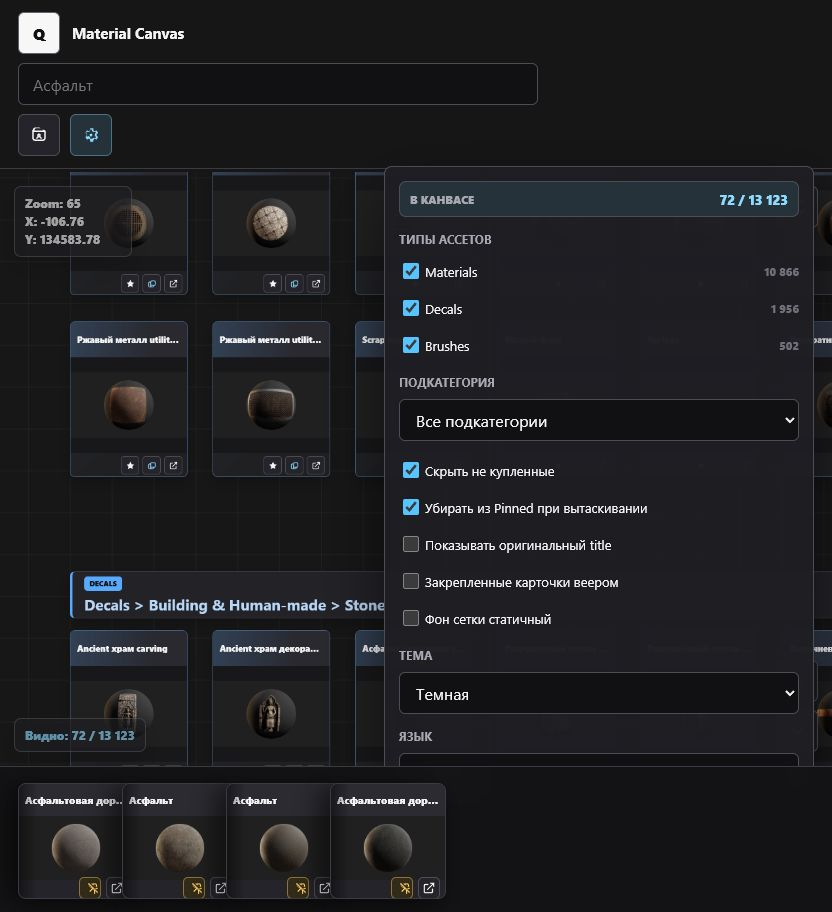
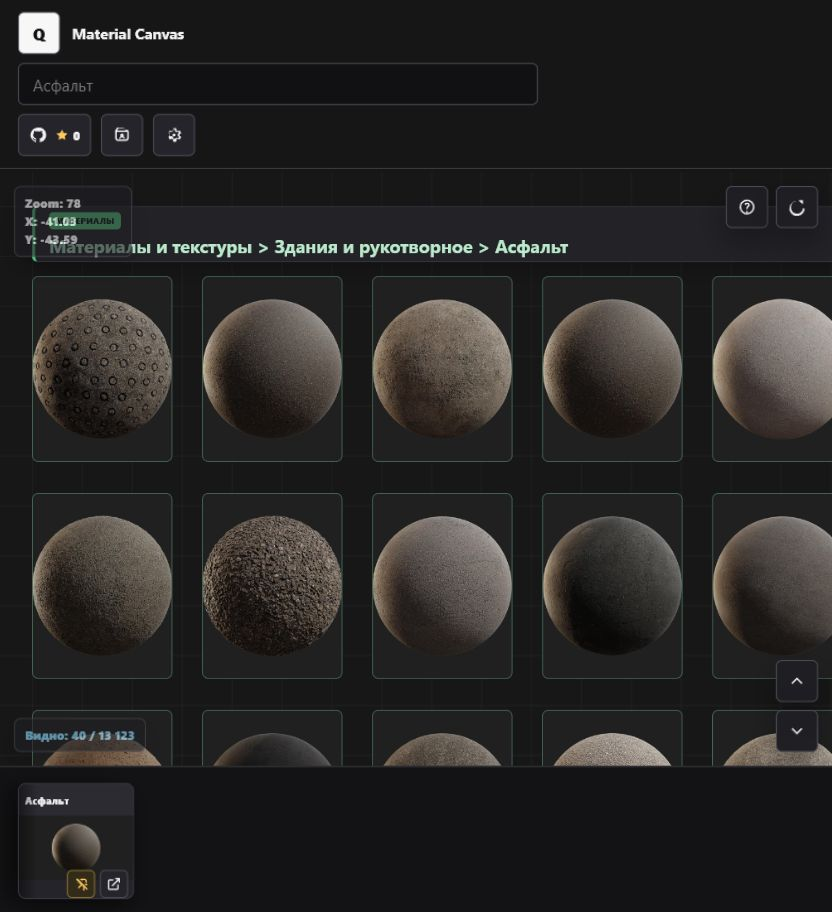
Update docs and localize asset titles

diff --git a/src/App.jsx b/src/App.jsx
@@ -647,6 +647,21 @@ function formatCategoryPath(category, language = DEFAULT_SETTINGS.language) {
     .join(" > ");
 }
 
+function getAssetDisplayTitles(asset, language = DEFAULT_SETTINGS.language, showOriginalTitle = false) {
+  const originalTitle = asset.title || asset.title_ru || "";
+  const translatedTitle = asset.title_ru || asset.title || "";
+  if (showOriginalTitle) {
+    return {
+      primaryTitle: originalTitle,
+      secondaryTitle: translatedTitle && translatedTitle !== originalTitle ? translatedTitle : "",
+    };
+  }
+  return {
+    primaryTitle: language === "ru" ? translatedTitle : originalTitle,
+    secondaryTitle: "",
+  };
+}
+
 function getCategoryLeafLabel(category, language = DEFAULT_SETTINGS.language) {
   const parts = splitCategoryPath(category);
   const leaf = parts.at(-1);
@@ -1761,6 +1776,7 @@ export default function App() {
                   isSearchMatch={!activeQuery || searchMatchSet.has(asset.id)}
                   isCurrent={currentFocusId === asset.id}
                   showOriginalTitle={showOriginalTitle}
+                  language={language}
                   isCompact={isCompactCardZoom}
                   t={t}
                   onTogglePinned={() => togglePinned(asset.id)}
@@ -1785,6 +1801,7 @@ export default function App() {
                   isSearchMatch={!activeQuery || searchMatchSet.has(asset.id)}
                   isCurrent={currentFocusId === asset.id}
                   showOriginalTitle={showOriginalTitle}
+                  language={language}
                   isCompact={isCompactCardZoom}
                   t={t}
                   onTogglePinned={() => togglePinned(asset.id)}
@@ -1848,6 +1865,7 @@ export default function App() {
           assetById={assetById}
           windowWidth={windowWidth}
           showOriginalTitle={showOriginalTitle}
+          language={language}
           pinnedFan={pinnedFan}
           onRemove={(assetId) => togglePinned(assetId)}
           onDragStart={startHandDrag}
@@ -1855,7 +1873,7 @@ export default function App() {
         />
       )}
 
-      {handGhost && <HandGhost ghost={handGhost} showOriginalTitle={showOriginalTitle} t={t} />}
+      {handGhost && <HandGhost ghost={handGhost} showOriginalTitle={showOriginalTitle} language={language} t={t} />}
       {toast && <div className="toast is-visible">{toast}</div>}
     </div>
   );
@@ -2396,6 +2414,7 @@ function AssetCard({
   isSearchMatch,
   isCurrent,
   showOriginalTitle,
+  language = DEFAULT_SETTINGS.language,
   isCompact = false,
   t,
   onTogglePinned,
@@ -2412,8 +2431,7 @@ function AssetCard({
     isCurrent ? "current-hit" : "",
     isCompact ? "is-compact" : "",
   ].filter(Boolean).join(" ");
-  const primaryTitle = showOriginalTitle ? asset.title : (asset.title_ru || asset.title);
-  const secondaryTitle = showOriginalTitle ? asset.title_ru : "";
+  const { primaryTitle, secondaryTitle } = getAssetDisplayTitles(asset, language, showOriginalTitle);
   const cardStyle = {
     transform: `translate(${x}px, ${y}px)`,
     "--asset-preview": `url(${JSON.stringify(asset.preview || "")})`,
@@ -2485,7 +2503,7 @@ function AssetCard({
   );
 }
 
-function Hand({ handRef, pinnedIds, assetById, windowWidth, showOriginalTitle, pinnedFan, onRemove, onDragStart, t }) {
+function Hand({ handRef, pinnedIds, assetById, windowWidth, showOriginalTitle, language, pinnedFan, onRemove, onDragStart, t }) {
   const hoverTimeoutRef = useRef(null);
   const [activeHandCardId, setActiveHandCardId] = useState("");
   const pinnedAssets = Array.from(pinnedIds)
@@ -2518,8 +2536,7 @@ function Hand({ handRef, pinnedIds, assetById, windowWidth, showOriginalTitle, p
     <aside ref={handRef} className="hand" aria-label="Pinned assets">
       <div className="hand-cards" style={{ "--hand-count": pinnedAssets.length, "--hand-step": `${step}px` }}>
         {pinnedAssets.map((asset, index) => {
-          const primaryTitle = showOriginalTitle ? asset.title : (asset.title_ru || asset.title);
-          const secondaryTitle = showOriginalTitle ? asset.title_ru : "";
+          const { primaryTitle, secondaryTitle } = getAssetDisplayTitles(asset, language, showOriginalTitle);
           const progress = pinnedAssets.length > 1 ? index / (pinnedAssets.length - 1) : 0;
           const wavePhase = progress * Math.PI * 2 - Math.PI / 2;
           const wave = Math.sin(wavePhase);
@@ -2571,7 +2588,7 @@ function Hand({ handRef, pinnedIds, assetById, windowWidth, showOriginalTitle, p
   );
 }
 
-function HandGhost({ ghost, showOriginalTitle, t }) {
+function HandGhost({ ghost, showOriginalTitle, language, t }) {
   return (
     <div className="drag-ghost" style={{ left: ghost.x, top: ghost.y }}>
       <AssetCard
@@ -2584,6 +2601,7 @@ function HandGhost({ ghost, showOriginalTitle, t }) {
         isSearchMatch
         isCurrent={false}
         showOriginalTitle={showOriginalTitle}
+        language={language}
         t={t}
         onTogglePinned={() => {}}
         onDuplicate={() => {}}

diff --git a/README.md b/README.md
@@ -2,17 +2,33 @@
 
 Material Canvas is a static React/Vite reference board for browsing a large Quixel asset library. It is built for artists who need to search, compare, pin, and arrange materials, 3D models, decals, and brushes while working on different project profiles.
 
+[Read this document in Russian](README.ru.md)
+
 ![Material Canvas English UI](docs/screenshots/material-canvas-en.png)
 
 ## Features
 
-- Large zoomable canvas with asset cards grouped by category.
-- Search with autocomplete, highlighted matches, and next-result navigation.
-- Per-profile Local Storage persistence for zoom, viewport position, pinned cards, free canvas copies, search state, filters, theme, and language.
-- Pinned hand, draggable duplicate cards, category jump controls, and compact cards at far zoom levels.
+- Large zoomable canvas with asset cards grouped by localized category paths.
+- Search with autocomplete, recent search history, highlighted matches, and next-result navigation.
+- Per-profile Local Storage persistence for zoom, viewport position, pinned cards, free canvas copies, search state, filters, theme, language, and lightweight-card mode.
+- Pinned hand with safer hover behavior, larger controls, draggable duplicate cards, and optional fan layout.
+- Focus mode for a cleaner canvas view.
+- Category jump controls, reset view, visible asset counters, and compact cards at far zoom levels.
 - Asset type filtering for Materials, 3D Models, Decals, and Brushes.
+- Grouped subcategory selector with localized labels instead of repeated full paths.
 - English and Russian UI switcher.
 - Static hosting friendly: no backend server is required.
+
+## Hotkeys
+
+- `Tab` accepts search autocomplete.
+- `F3` or `Ctrl+G` jumps to the next search match.
+- `R` resets the canvas view.
+- `F` toggles Focus mode.
+- `/` opens or closes the shortcuts panel.
+- `E` toggles lightweight cards.
+- `Ctrl+Z` undoes the last canvas action.
+- `1-9` loads profiles by list order.
 
 ## Local Development
 
@@ -48,68 +64,15 @@ This repository includes a GitHub Actions workflow at `.github/workflows/pages.y
 The Vite config uses `base: "./"`, so the build works from GitHub Pages project URLs such as:
 
 ```text
-https://username.github.io/material_canvas/
+https://username.github.io/material-canvas/
 ```
 
 ## Data Notes
 
 The demo data in `public/data/assets.json` intentionally includes purchased-state examples. Profiles and user changes are not uploaded anywhere; they are saved only in the browser's Local Storage. Artists can export and import profile JSON files from the profile menu.
 
----
+## Credits And Feedback
 
-# Material Canvas на русском
+Material Canvas was developed with help from ChatGPT Codex.
 
-Material Canvas — статический React/Vite-инструмент для просмотра большой библиотеки Quixel-ассетов. Он помогает художнику искать, сравнивать, закреплять и раскладывать материалы, 3D-модели, декали и кисти по отдельным рабочим профилям.
-
-![Material Canvas Russian UI](docs/screenshots/material-canvas-ru.png)
-
-## Возможности
-
-- Большой zoomable canvas с карточками ассетов и группировкой по категориям.
-- Поиск с автодополнением, подсветкой совпадений и переходом к следующему результату.
-- Профили в Local Storage: сохраняются zoom, позиция canvas, закрепленные карточки, свободные копии, поиск, фильтры, тема и язык.
-- Pinned-рука, перетаскиваемые дубликаты, переходы по категориям и упрощенные карточки на дальнем зуме.
-- Фильтры по типам ассетов: Materials, 3D Models, Decals и Brushes.
-- Переключение интерфейса между английским и русским.
-- Можно хостить как обычный статический сайт, backend не нужен.
-
-## Локальный запуск
-
-```bash
-npm ci
-npm run dev
-```
-
-Открой локальный URL, который покажет Vite. Данные ассетов загружаются из:
-
-```text
-public/data/assets.json
-```
-
-## Сборка
-
-```bash
-npm run build
-npm run preview
-```
-
-Готовый сайт появится в папке `dist/`.
-
-## GitHub Pages
-
-В репозитории уже есть workflow `.github/workflows/pages.yml`.
-
-1. Залей репозиторий на GitHub.
-2. В настройках репозитория открой **Pages**.
-3. В **Source** выбери **GitHub Actions**.
-4. Сделай push в `master` или запусти workflow вручную.
-
-В `vite.config.js` стоит `base: "./"`, поэтому сборка работает из project URL GitHub Pages, например:
-
-```text
-https://username.github.io/material_canvas/
-```
-
-## Данные
-
-Файл `public/data/assets.json` намеренно содержит пример списка ассетов со статусом покупки. Профили и изменения пользователя никуда не отправляются: они сохраняются только в Local Storage браузера. Профили можно экспортировать и импортировать JSON-файлом из меню профилей.
+Issues, bug reports, and feature requests are welcome in the GitHub repository.

diff --git a/README.ru.md b/README.ru.md
@@ -1,0 +1,78 @@
+# Material Canvas
+
+Material Canvas - статический React/Vite-инструмент для просмотра большой библиотеки Quixel-ассетов. Он помогает художнику искать, сравнивать, закреплять и раскладывать материалы, 3D-модели, декали и кисти по отдельным рабочим профилям.
+
+[English README](README.md)
+
+![Material Canvas Russian UI](docs/screenshots/material-canvas-ru.png)
+
+## Возможности
+
+- Большой масштабируемый canvas с карточками ассетов и группировкой по локализованным путям категорий.
+- Поиск с автодополнением, историей последних запросов, подсветкой совпадений и переходом к следующему результату.
+- Профили в Local Storage: сохраняются zoom, позиция canvas, закрепленные карточки, свободные копии, поиск, фильтры, тема, язык и легкий режим карточек.
+- Pinned-рука с защитой hover-состояния, увеличенными кнопками, перетаскиваемыми дубликатами и опциональным веером.
+- Focus mode для чистого просмотра canvas.
+- Переходы по категориям, сброс вида, счетчики видимых ассетов и компактные карточки на дальнем зуме.
+- Фильтры по типам ассетов: материалы, 3D-модели, декали и кисти.
+- Сгруппированный список подкатегорий с локализованными подписями без повторения полного пути в каждом пункте.
+- Переключение интерфейса между английским и русским.
+- Можно хостить как обычный статический сайт, backend не нужен.
+
+## Горячие клавиши
+
+- `Tab` принимает автодополнение поиска.
+- `F3` или `Ctrl+G` переходят к следующему совпадению поиска.
+- `R` сбрасывает вид canvas.
+- `F` включает или выключает Focus mode.
+- `/` открывает или закрывает окно подсказок.
+- `E` включает или выключает легкие карточки.
+- `Ctrl+Z` отменяет последнее действие на canvas.
+- `1-9` загружает профили по порядку в списке.
+
+## Локальный запуск
+
+```bash
+npm ci
+npm run dev
+```
+
+Открой локальный URL, который покажет Vite. Данные ассетов загружаются из:
+
+```text
+public/data/assets.json
+```
+
+## Сборка
+
+```bash
+npm run build
+npm run preview
+```
+
+Готовый сайт появится в папке `dist/`.
+
+## GitHub Pages
+
+В репозитории уже есть workflow `.github/workflows/pages.yml`.
+
+1. Залей репозиторий на GitHub.
+2. В настройках репозитория открой **Pages**.
+3. В **Source** выбери **GitHub Actions**.
+4. Сделай push в `master` или запусти workflow вручную.
+
+В `vite.config.js` стоит `base: "./"`, поэтому сборка работает из project URL GitHub Pages, например:
+
+```text
+https://username.github.io/material-canvas/
+```
+
+## Данные
+
+Файл `public/data/assets.json` намеренно содержит пример списка ассетов со статусом покупки. Профили и изменения пользователя никуда не отправляются: они сохраняются только в Local Storage браузера. Профили можно экспортировать и импортировать JSON-файлом из меню профилей.
+
+## Благодарности и обратная связь
+
+Material Canvas разработан при помощи ChatGPT Codex.
+
+Issues, баг-репорты и предложения по фичам принимаются в GitHub-репозитории.